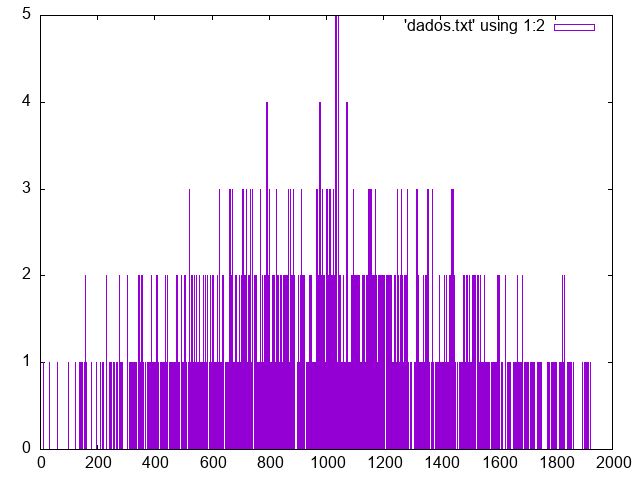
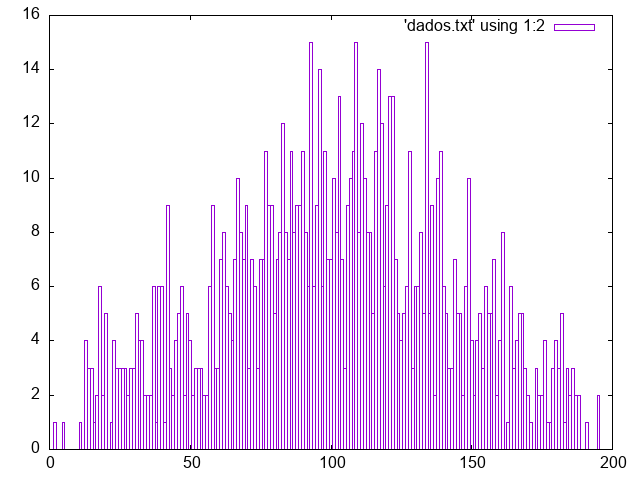
Versão 2 (dá pra escolher x e repetições)

diff --git a/src/index.c b/src/index.c
@@ -12,15 +12,17 @@ int main() {
     
     //repetições
     int quant;
+    int numMax;
+    printf("De 0 a quanto ele deve gerar os números? (digite um número inteiro maior que 0) ");
+    scanf("%d", &numMax);
     printf("Digite a quantidade de repetições: ");
     scanf("%d", &quant);
-
-    int *arrayDados = (int *)malloc(quant*2 * sizeof(int));
+    int *arrayDados = (int *)malloc(((numMax*2) + 1) * sizeof(int));
     if (arrayDados == NULL) {
         printf("Erro ao alocar memória.\n");
         return 1;
     }
-    for (int i=0;i<quant*2;i++) {
+    for (int i=0;i<=numMax*2;i++) {
         arrayDados[i] = 0;
     }
     srand(time(NULL));
@@ -28,14 +30,14 @@ int main() {
     int num2;
     int soma;
     for (int i = 0;i<quant;i++){
-        num1 = rand() % (quant+1);
-        num2 = rand() % (quant+1);
+        num1 = rand() % (numMax+1);
+        num2 = rand() % (numMax+1);
         soma = num1+num2;
         arrayDados[soma]++;
     }
     printf("x  y\n");
     fprintf(arquivo, "x y\n");
-    for (int i=0;i<quant*2;i++) {
+    for (int i=0;i<=numMax*2;i++) {
         printf("%d  %d\n", i, arrayDados[i]);
         fprintf(arquivo, "%d %d\n", i, arrayDados[i]);
     }

diff --git a/README.md b/README.md
@@ -1,8 +1,8 @@
-# Programinha em C que soma dois números aléatorios de 0 até a quantidade de repetições e cria um arquivo de dados para plotagem de gráfico.
+# Programinha em C que soma dois números aléatorios de 0 até um número x uma certa quantidade de vezes e cria um arquivo de dados para plotagem de gráfico.
 
-Percebe-se que, quanto maior o número de repetições, mais o gráfico se aproxima de uma distribuição gaussiana, legal. 
+Percebe-se que, quanto maior o número de repetições, mais o gráfico se aproxima de um triângulo, legal. 
 
-Alguns gráficos feitos com o programa:
+Alguns gráficos feitos com o programa (x = 200):
 
 10 repetições:
 
@@ -31,3 +31,11 @@ Alguns gráficos feitos com o programa:
 10000000 repetições:
 
 ![10000000 Repetições](imagens/10000000rep.png)
+
+100000000 repetições:
+
+![100000000 Repetições](imagens/10000000rep.png)
+
+1000000000 repetições:
+
+![1000000000 Repetições](imagens/10000000rep.png)
